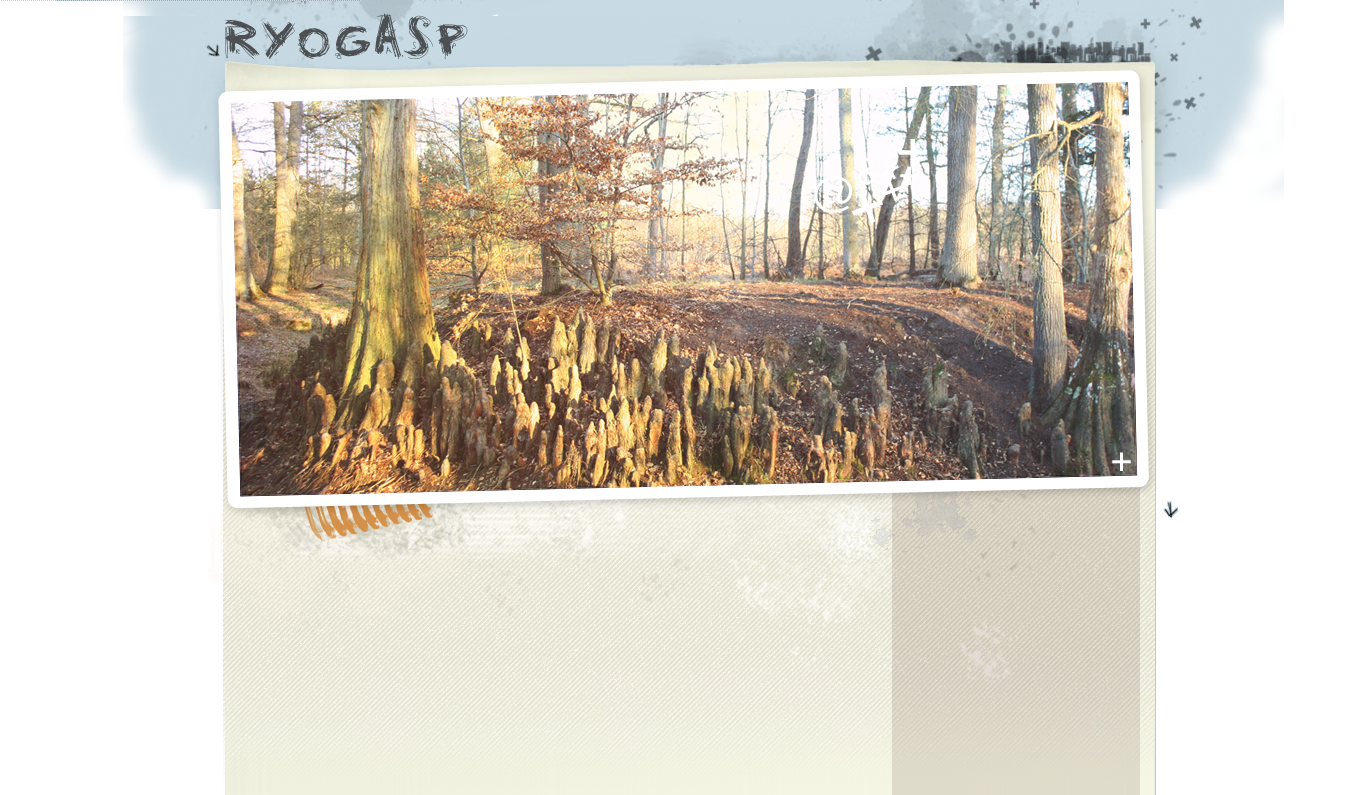
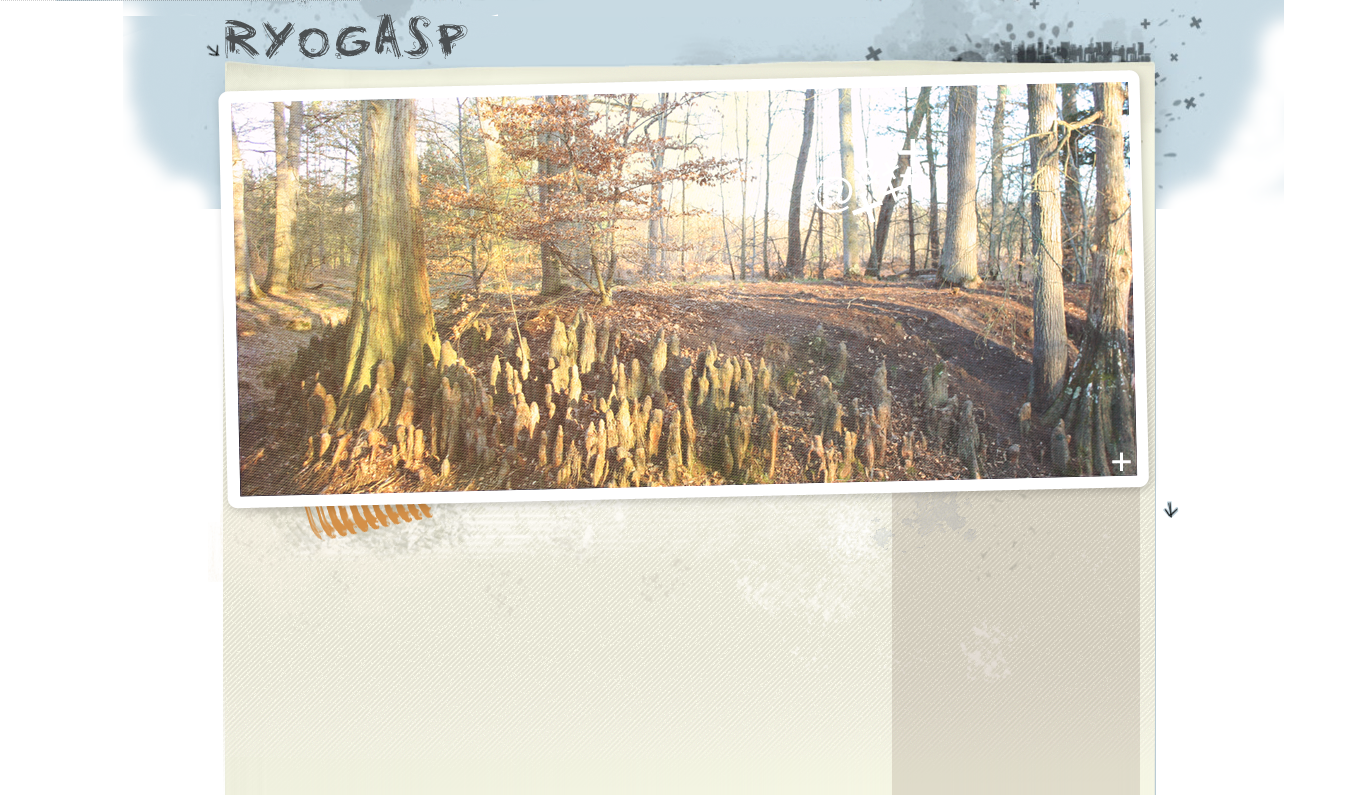
Ajout de légères trames pour l'opacité le titre est repositionné un léger text-shadow pour faire ressortir le titre de la #une

Changed region(s): [[0.1537, 0.2113, 0.7072, 0.634], [0.3997, 0.1811, 0.4305, 0.2113]]

diff --git a/squelettes/sommaire.html b/squelettes/sommaire.html
@@ -48,7 +48,7 @@
 /*		border:1px solid pink;*/
 	}
 	#une{
-		padding:120px 0 0 50px;
+		padding:350px 0 0 50px;
 		width:720px;
 /*		border:1px solid yellow;*/
 	}
@@ -59,6 +59,7 @@
 	#une a{
 		color:#000;
 		text-decoration:none;
+		text-shadow: 1px 1px 3px rgba(255,255,255,0.3);
 	}
 	#une div{
 		font-size:12pt;
